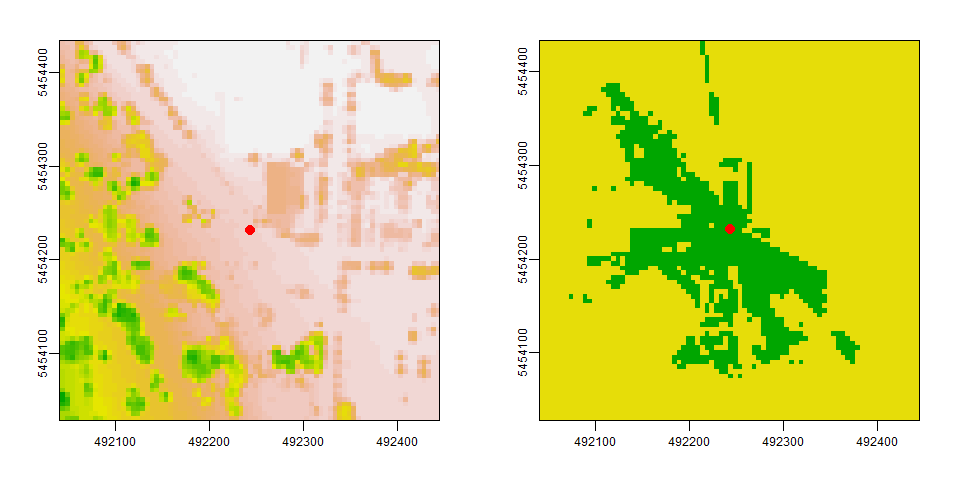
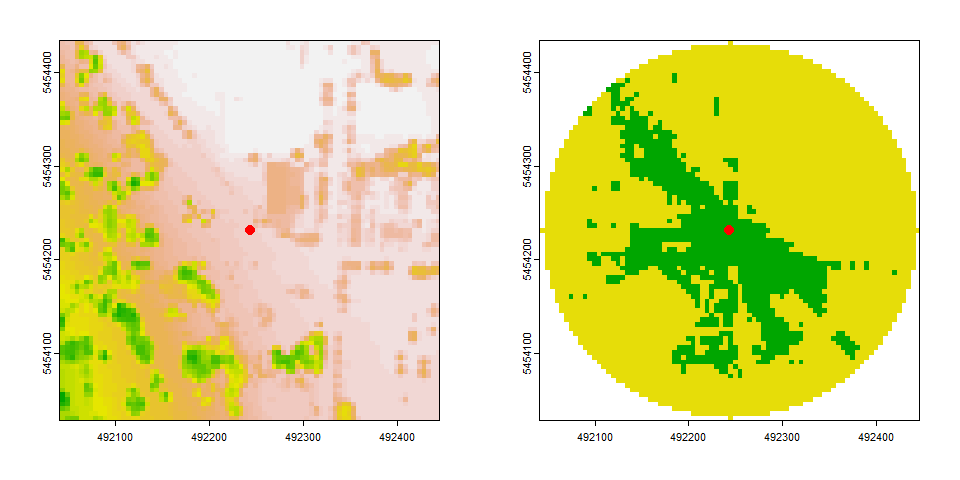
Remove cells outside buffer

diff --git a/README.md b/README.md
@@ -170,8 +170,8 @@ position at 1.7 meters height (eye level).
 
 ``` r
 library(GVI)
-viewshed1 <- viewshed(observer = observer, dsm_rast = DSM, dtm_rast = DEM,
-                      max_distance = 200, observer_height = 1.7, plot = TRUE)
+vs <- viewshed(observer = observer, dsm_rast = DSM, dtm_rast = DEM,
+               max_distance = 200, observer_height = 1.7, plot = TRUE)
 ```
 
 <img src="man/figures/README-unnamed-chunk-4-1.png" width="100%" />
